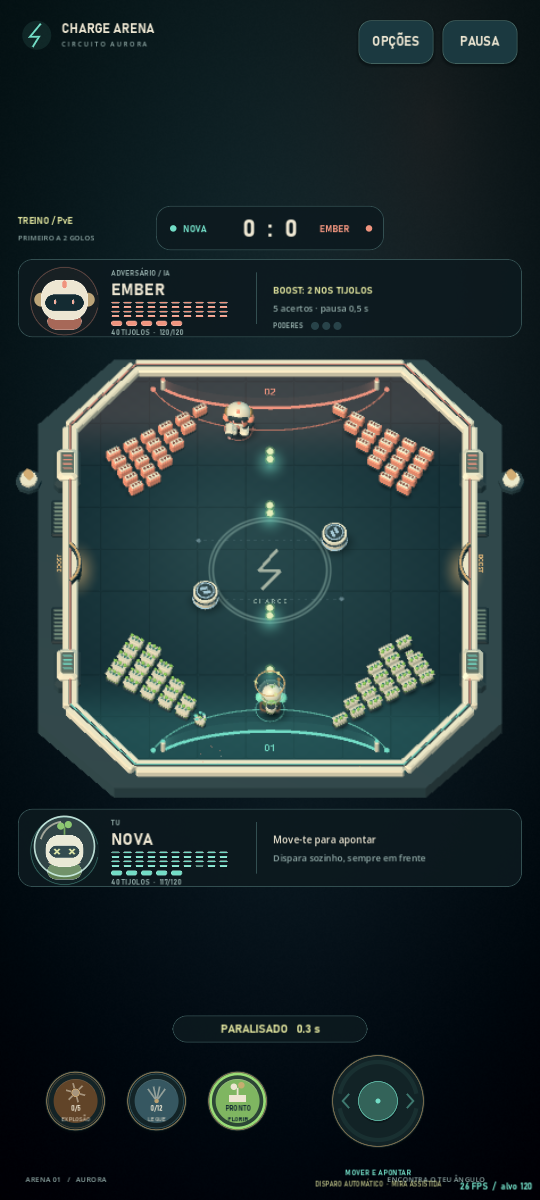
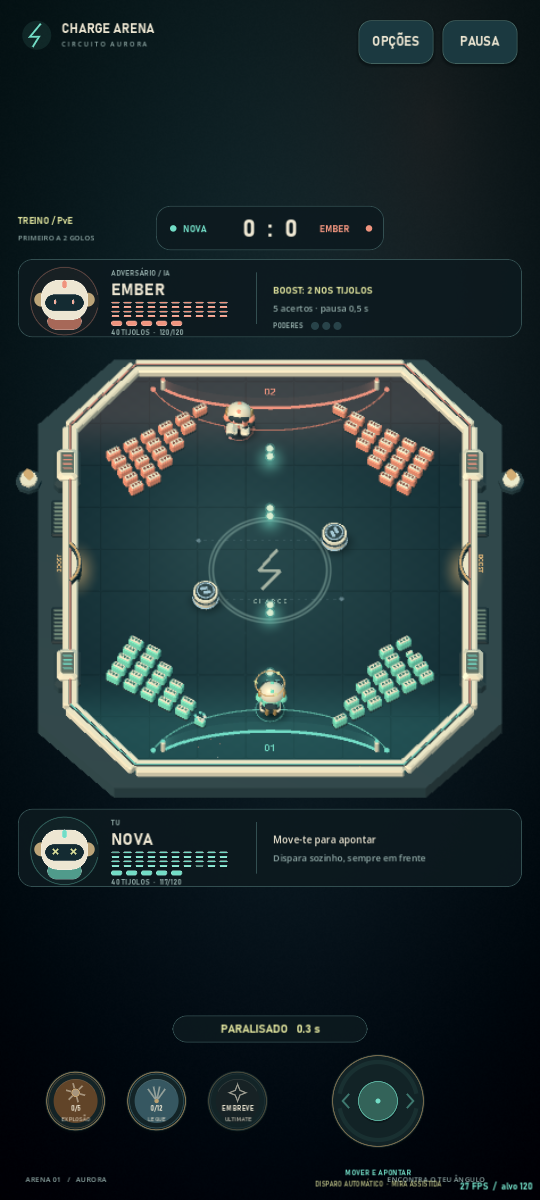
feat: demo jogável com progressão completa, e o laser deixa de ricochetear
O laser não ricocheteava: durante os três segundos do feixe o piloto continuava
a disparar balas normais por baixo — oito delas na medição — e eram essas que
saltavam pelas paredes. Enquanto a lança está acesa, a lança é a arma.

A progressão fica ligada na versão entregue. Um nível aberto, um piloto, a
carteira a zero e os dois poderes de série; cada chefe derrotado abre o nível
seguinte e entrega a skin desse chefe, e com ela a ultimate. Medido: uma partida
rende cerca de 80 tijolos, 119 nos níveis de chefe, portanto o primeiro poder
comprado chega ao fim de umas três partidas e ter os sete custa perto de 40.

Teste novo, test_progress, que percorre isto de ponta a ponta com ficheiros
temporários: começa fechado, vence o nível 1, confirma que abre só o nível 2,
ganha a skin do Relojoeiro, compra um poder com os tijolos certos, equipa-o e
verifica que tudo sobrevive a um reinício.

Os testes que assumiam a build aberta passam a verificar as duas coisas: que o
jogo entregue começa fechado e que o interruptor ainda abre tudo quando um build
de testes o quiser. O test_pvp_powers passou a vestir uma skin com ultimate,
porque um piloto novo não tem nenhuma — ela vem com a skin que se ganha.

versionCode 34 / 0.9.4

diff --git a/README.md b/README.md
@@ -48,7 +48,7 @@ Cada piloto leva **três poderes** para a partida: **dois comprados** na aba POD
 | Sentinela | **Singularidade** | Três ondas de choque caem do céu e varrem a arena inteira, uma atrás da outra: tudo o que apanham perde o rumo e é arrastado em câmara lenta até ao núcleo. Ao fim de 2,1 s o núcleo abre-se e devolve 26 a 44 projéteis num leque de 155° — os que têm um tijolo na sua faixa são deitados em cima dele —, à velocidade de bola turbinada, 2 de dano, sem ricochete e a atravessar os obstáculos móveis. |
 | Relojoeiro | **Sentinelas** | Duas mini-guns automáticas ficam de pé no meio do ringue. Disparam sozinhas a cada 0,92 s, 2 de dano e sem ricochete, atacam a muralha do rival e metem golo se a baliza já estiver aberta (neste jogo só depois de a muralha cair). São frágeis — 2 vidas cada — e estão expostas: duas bolas em jogo bastam para abater uma. Juntas fazem cerca de 3 de dano por segundo enquanto vivas. |
 
-**Loja e kit** (`scripts/powers.gd`, aba PODERES do menu). Cada poder escolhido mostra uma **demonstração animada** em ciclo — uma arena em miniatura onde se vê o efeito a acontecer: a bala a rebentar, o jorro da metralhadora, o feixe a comer tijolos, as muralhas a subir, a capa a devolver a bala como boost, a onda a limpar o campo, o vórtice a engolir os tiros e a cuspí-los em leque. A moeda são os **tijolos destruídos**, contados em qualquer modo e guardados em `user://powers.cfg` com as compras e o kit. Nesta versão de testes `UNLOCK_ALL_FOR_TESTS` entrega os nove já comprados com a carteira cheia; põe-no a `false` para voltar à progressão. Começas com Explosão e Rajada de Ar, que são de série e já vêm equipadas. Cada poder ocupa um slot de cada vez: equipá-lo no outro slot troca os dois.
+**Loja e kit** (`scripts/powers.gd`, aba PODERES do menu). Cada poder escolhido mostra uma **demonstração animada** em ciclo — uma arena em miniatura onde se vê o efeito a acontecer: a bala a rebentar, o jorro da metralhadora, o feixe a comer tijolos, as muralhas a subir, a capa a devolver a bala como boost, a onda a limpar o campo, o vórtice a engolir os tiros e a cuspí-los em leque. A moeda são os **tijolos destruídos**, contados em qualquer modo e guardados em `user://powers.cfg` com as compras e o kit. A versão entregue vem com a **progressão ligada**: começas com um nível aberto, um piloto, a carteira a zero e os dois poderes de série. Cada chefe derrotado abre o nível seguinte e entrega a skin desse chefe — e com ela a ultimate dele. Uma partida rende cerca de 80 tijolos (119 nos níveis de chefe), portanto o primeiro poder comprado chega ao fim de umas três partidas e ter os sete custa perto de 40. Para um build de testes com tudo aberto, põe `UNLOCK_ALL_FOR_TESTS` a `true` em `powers.gd`, `skins.gd` e `campaign.gd`. Começas com Explosão e Rajada de Ar, que são de série e já vêm equipadas. Cada poder ocupa um slot de cada vez: equipá-lo no outro slot troca os dois.
 
 No telemóvel os botões ficam em fila ao lado do joystick, na faixa livre por baixo da arena. Na horizontal essa faixa é o próprio estádio — e o teu piloto —, por isso passam para a bolsa por baixo do teu cartão, à esquerda da arena e acima do joystick, onde não tapam nada. O anel à volta de cada um mostra a carga (por exemplo `3/5`), acende quando o poder está pronto e, na metralhadora e no laser, passa a contar os segundos que faltam. No PC são as teclas **1, 2 e 3**.
 
